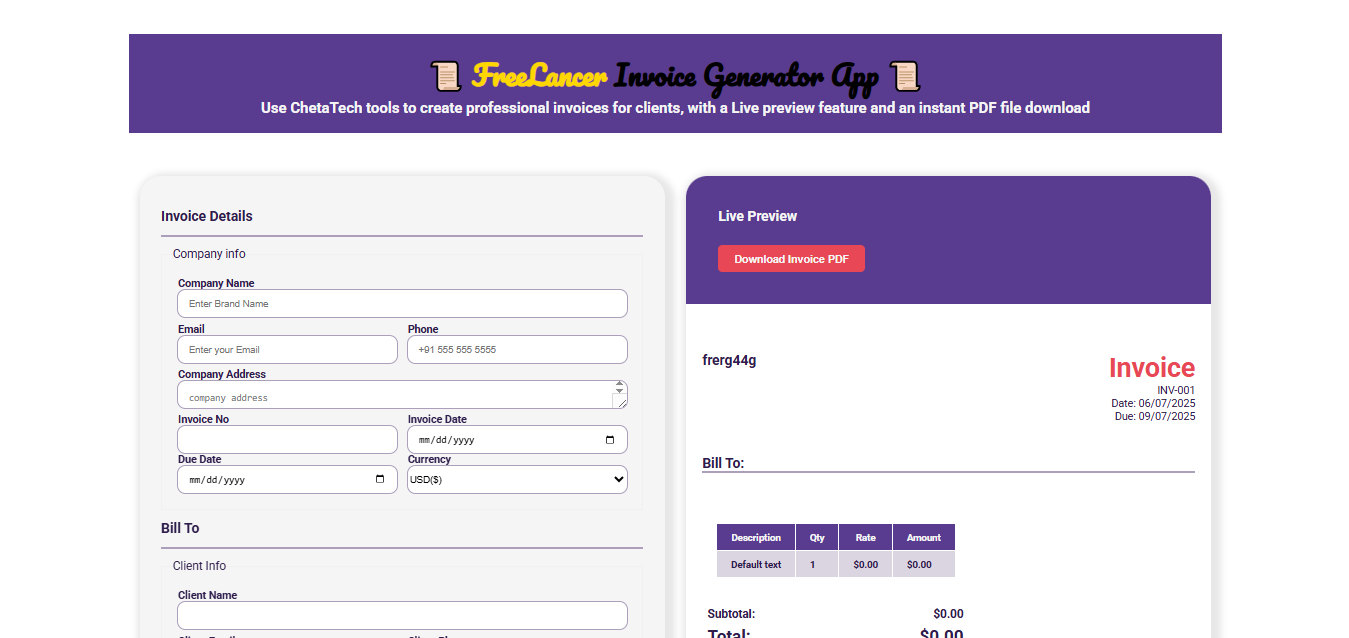
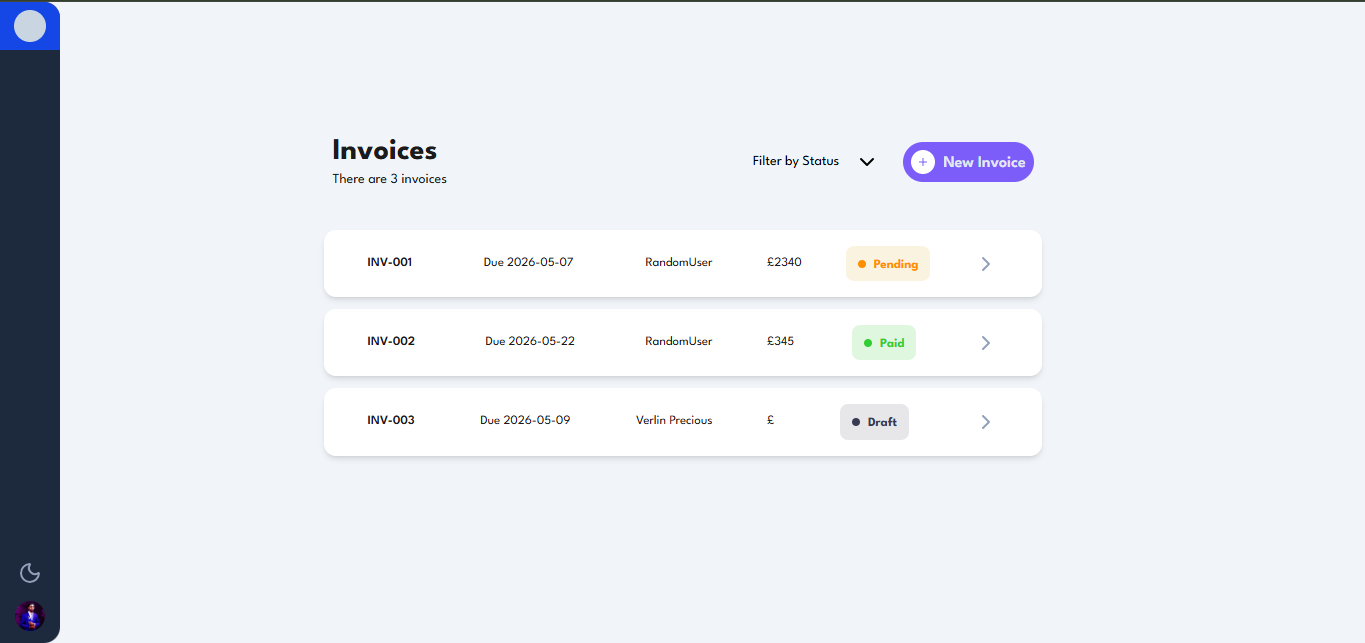
feat(ui, logic): add a new project to the portfolio and remove an existing one

diff --git a/src/context/DataContext.jsx b/src/context/DataContext.jsx
@@ -3,6 +3,7 @@ import timely from "../assets/timelypic.png";
 import Chetagram from "../assets/Chetagram.png";
 import etransit from "../assets/etransit.png";
 import pillify from "../assets/pillifypic.png";
+import invoice from "../assets/invoice2.png";
 
 const DataContext = createContext({});
 
@@ -44,14 +45,14 @@ export const DataProvider = ({ children }) => {
         },
         {
             id: 4,
-            name: "Chetagram Sign-in",
+            name: "Invoice Generator",
             description:
-                "This was developed as a part of my capstone project while i was solidifying my css fundamentals, as a clone of the official instagram desktop login page",
-            skills: ["HTML", "CSS"],
-            imgSrc: Chetagram,
-            imgAlt: "chetagram",
-            liveDemo: "",
-            githubRepo: "",
+                "A Web application that helps users to keep track of payment invoices for clients, with features like filtering by status, dark theme toggle, editing and deleting invoices, saving as draft etc.",
+            skills: ["React", "TailwindCSS", "Context API"],
+            imgSrc: invoice,
+            imgAlt: "invoice app",
+            liveDemo: "stage2task-zeta.vercel.app",
+            githubRepo: "https://github.com/Scarlet70/Stage2task",
         },
     ];
 

diff --git a/src/main.jsx b/src/main.jsx
@@ -5,9 +5,9 @@ import App from "./App.jsx";
 import { DataProvider } from "./context/DataContext.jsx";
 
 createRoot(document.getElementById("root")).render(
-	<StrictMode>
-		<DataProvider>
-			<App />
-		</DataProvider>
-	</StrictMode>,
+    <StrictMode>
+        <DataProvider>
+            <App />
+        </DataProvider>
+    </StrictMode>,
 );
